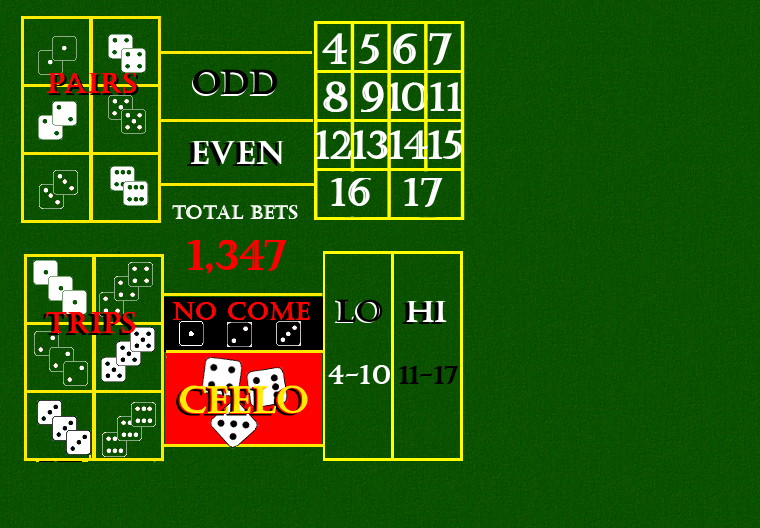
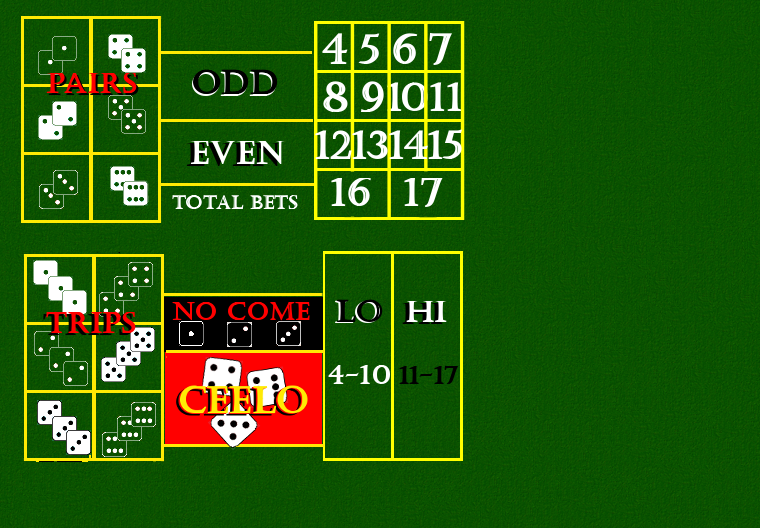
frustrated
rolling back to yesterday

Changed region(s): [[0.2118, 0.3636, 0.3934, 0.4242], [0.2421, 0.4545, 0.3934, 0.5152]]

diff --git a/casino3dice/public_html/stylesheets/table.css b/casino3dice/public_html/stylesheets/table.css
@@ -89,12 +89,7 @@ iframe{
         top: 297px;
 }
 
-/*#rollbutton{
-   position: relative;
-   top: -275px;
-   left:550px;
-    z-index:2;
-}*/
+
 
 .flattabletop{
     position: absolute;
@@ -114,20 +109,14 @@ iframe{
     
 }
 #totalbetslabel{
-    position:relative;
-    font-size: 20px;
-        top:-425px;
-    left:170px;
+    left:200px;
     
 }
 #totalwins{
-    position: relative;
-    top:-450px;
-    left:175px;
+    left:275px;
 }
-#totalllosses{ position: relative;
-    top:-415px;
-    left:155px;
+#totalllosses{
+    left:150px;
 }
 
 #bank{
@@ -211,4 +200,13 @@ left:650px;}
         0%{}
     100%{left: 575px; top:450px;}
  
+}.totalsLabel {
+font-size: 30px;
+color:red;
+    position:relative;
+    font-size: 24px;
+        top:-425px;
+    
+    
+
 }

diff --git a/casino3dice/public_html/index.html b/casino3dice/public_html/index.html
@@ -143,7 +143,7 @@
              <label id = "bankroll" class ="bankroll">0</label>                
        </div>
         
-        <div id ="totalBets"><label id ="totalbetslabel">tb</label><label id ="totalwins"></label><label id = "totallosses"></label></div>
+        <div id ="totalBets"><label id ="totalbetslabel" class="totalsLabel"></label><label id ="totalwins" class="totalsLabel"></label><label id = "totallosses" class="totalsLabel"></label></div>
         
         <div id="afterRoll">
             <img id = "winnerAnnounce" src="images/winner.png" alt=""/>
